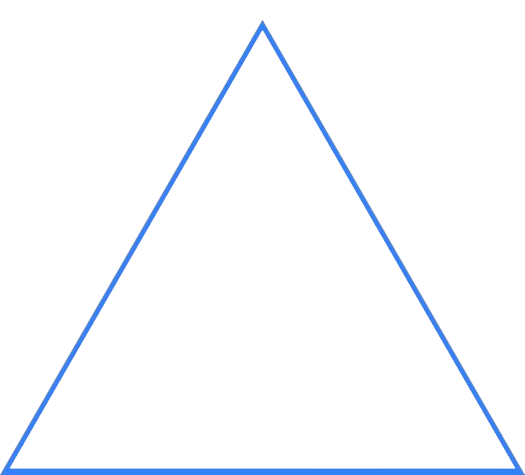
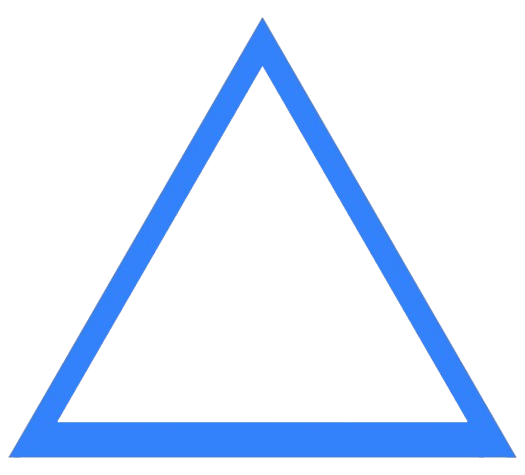
feat: add animation in login page

Changed region(s): [[0.0, 0.0295, 1.0, 1.0]]

diff --git a/src/apps/pages/auth/components/LeftVisuals.tsx b/src/apps/pages/auth/components/LeftVisuals.tsx
@@ -1,19 +1,19 @@
 import React from 'react';
 
-// Lưu ý: Đảm bảo đường dẫn import ảnh của bạn chính xác (có thể dùng import keyboardImg from './assets/keyboard.png')
-const keyboardImg = 'src/apps/pages/auth/components/assets/keyboard.png';
-const triangleImg = 'src/apps/pages/auth/components/assets/triangle.png';
-const triangleHollowImg = 'src/apps/pages/auth/components/assets/triangle_hollow.png';
+import keyboardImg from './assets/keyboard.png';
+import triangleImg from './assets/triangle.png';
+import triangleHollowImg from './assets/triangle_hollow.png';
 
 export const LeftVisuals: React.FC = () => {
     return (
-        <div className="hidden lg:flex flex-1 relative bg-[#fbfcfd] flex-col items-center justify-center h-full overflow-hidden">
-            {/* CSS Animation nhấp nhô được nhúng trực tiếp để dễ quản lý */}
+        <div className="hidden lg:flex flex-1 relative bg-[#fbfcfd] overflow-hidden">
+
+            {/* Animation */}
             <style>
                 {`
                 @keyframes float-keyboard {
-                    0%, 100% { transform: translateY(0) rotate(-2deg) scale(1.1); }
-                    50% { transform: translateY(-25px) rotate(0deg) scale(1.1); }
+                    0%, 100% { transform: translateY(0) rotate(-2deg); }
+                    50% { transform: translateY(-20px) rotate(0deg); }
                 }
                 @keyframes float-triangle {
                     0%, 100% { transform: translateY(0) rotate(12deg); }
@@ -23,39 +23,45 @@ export const LeftVisuals: React.FC = () => {
                     0%, 100% { transform: translateY(0) rotate(-12deg); }
                     50% { transform: translateY(-25px) rotate(-5deg); }
                 }
+                @keyframes float-line {
+                    0%, 100% { transform: translateY(0) rotate(-12deg); }
+                    50% { transform: translateY(-15px) rotate(-12deg); } 
+                }
                 .animate-keyboard { animation: float-keyboard 6s ease-in-out infinite; }
                 .animate-triangle { animation: float-triangle 7s ease-in-out infinite; }
                 .animate-triangle-hollow { animation: float-triangle-hollow 8s ease-in-out infinite; }
+                .animate-line { animation: float-line 6s ease-in-out infinite; }
                 `}
             </style>
 
-            {/* Header Text */}
-            <div className="absolute top-[12%] text-center z-20 w-full">
-                <h1 className="text-[42px] font-bold text-[#1e293b] tracking-tight">Cyber Keys Login</h1>
+            {/* Title */}
+            <div className="absolute top-[8%] w-full text-center z-20 pointer-events-none">
+                <h1 className="text-[42px] font-bold text-[#1e293b] tracking-tight">Cyber Keys</h1>
                 <p className="text-[#64748b] text-[18px] mt-2 font-medium">Tactile Excellence, Reimagined</p>
             </div>
 
-            {/* Main Keyboard Image - Cài đặt lấp đầy màn hình và nhấp nhô */}
+            {/* Keyboard */}
             <img
                 src={keyboardImg}
                 alt="Mechanical Keyboard"
-                className="absolute -bottom-16 -left-12 w-[125%] max-w-none z-10 drop-shadow-[0_35px_35px_rgba(0,0,0,0.3)] object-cover animate-keyboard"
+                className="absolute -bottom-0 -left-0 w-[90%] max-w-none z-10 drop-shadow-[0_25px_35px_rgba(0,0,0,0.2)] object-contain animate-keyboard pointer-events-none"
             />
 
-            {/* Các nét đường thẳng nằm gần keyboard */}
-            <div className="absolute left-[12%] top-[40%] w-32 h-[3px] bg-[#2563eb] transform -rotate-[30deg] rounded-full z-0 opacity-80"></div>
-            <div className="absolute left-[26%] top-[35%] w-12 h-[3px] bg-[#2563eb] transform -rotate-[30deg] rounded-full z-0 opacity-80"></div>
+            {/* Line straight */}
+            <div className="absolute left-[11%] bottom-[58%] w-32 h-[4px] bg-[#2563eb] transform -rotate-20 rounded-full z-0 opacity-60 animate-line pointer-events-none"></div>
+            <div className="absolute left-[30%] bottom-[65.8%] w-10 h-[4px] bg-[#2563eb] transform -rotate-20 rounded-full z-0 opacity-60 animate-line pointer-events-none"></div>
+            <div className="absolute left-[55%] bottom-[9%] w-32 h-[4px] bg-[#2563eb] transform -rotate-20 rounded-full z-0 opacity-60 animate-line pointer-events-none"></div>
 
-            {/* Triangles */}
+            {/* Triangle */}
             <img
                 src={triangleImg}
-                alt="Decoration"
-                className="absolute right-[18%] top-[32%] w-14 z-20 animate-triangle"
+                alt="Triangle"
+                className="absolute right-[18%] top-[29%] w-14 z-10 transform -rotate-87 animate-triangle pointer-events-none"
             />
             <img
                 src={triangleHollowImg}
-                alt="Decoration"
-                className="absolute right-[22%] bottom-[25%] w-20 z-20 animate-triangle-hollow"
+                alt="Hollow Triangle"
+                className="absolute right-[20%] bottom-[13%] w-14 z-10 transform -rotate-75 animate-triangle-hollow pointer-events-none"
             />
         </div>
     );

diff --git a/src/apps/pages/auth/authPage/authPage.tsx b/src/apps/pages/auth/authPage/authPage.tsx
@@ -2,7 +2,7 @@ import React, { useState } from 'react';
 import { LeftVisuals } from '../components/LeftVisuals';
 import { LoginForm } from '../components/LoginForm/loginForm';
 
-// Component mẫu
+// Mock Component
 const RegisterForm = ({ onNavigate }: { onNavigate: any }) => (
   <div className="text-center p-8 bg-white rounded-xl shadow-lg w-full max-w-md">
     <h2 className="text-2xl font-bold mb-4">Register Form</h2>
@@ -23,13 +23,12 @@ const LoginPage: React.FC = () => {
   const [currentView, setCurrentView] = useState<ViewState>('login');
 
   return (
-    // Sử dụng h-screen w-screen overflow-hidden để lấp đầy 100% màn hình
-    <div className="flex h-screen w-screen overflow-hidden bg-[#f1f5f9] font-sans">
+    <div className="flex h-screen w-full overflow-hidden bg-[#f1f5f9] font-sans">
 
-      {/* Left side visuals */}
+      {/* Left side */}
       <LeftVisuals />
 
-      {/* Right side form container */}
+      {/* Right side */}
       <div className="flex-1 flex items-center justify-center h-full p-6 bg-white lg:bg-[#fafafb]">
         {currentView === 'login' && <LoginForm onNavigate={setCurrentView} />}
         {currentView === 'register' && <RegisterForm onNavigate={setCurrentView} />}

diff --git a/src/index.css b/src/index.css
@@ -53,11 +53,11 @@
 }
 
 #root {
-  width: 1126px;
+  /* width: 1126px;
   max-width: 100%;
   margin: 0 auto;
   text-align: center;
-  border-inline: 1px solid var(--border);
+  border-inline: 1px solid var(--border); */
   min-height: 100svh;
   display: flex;
   flex-direction: column;
